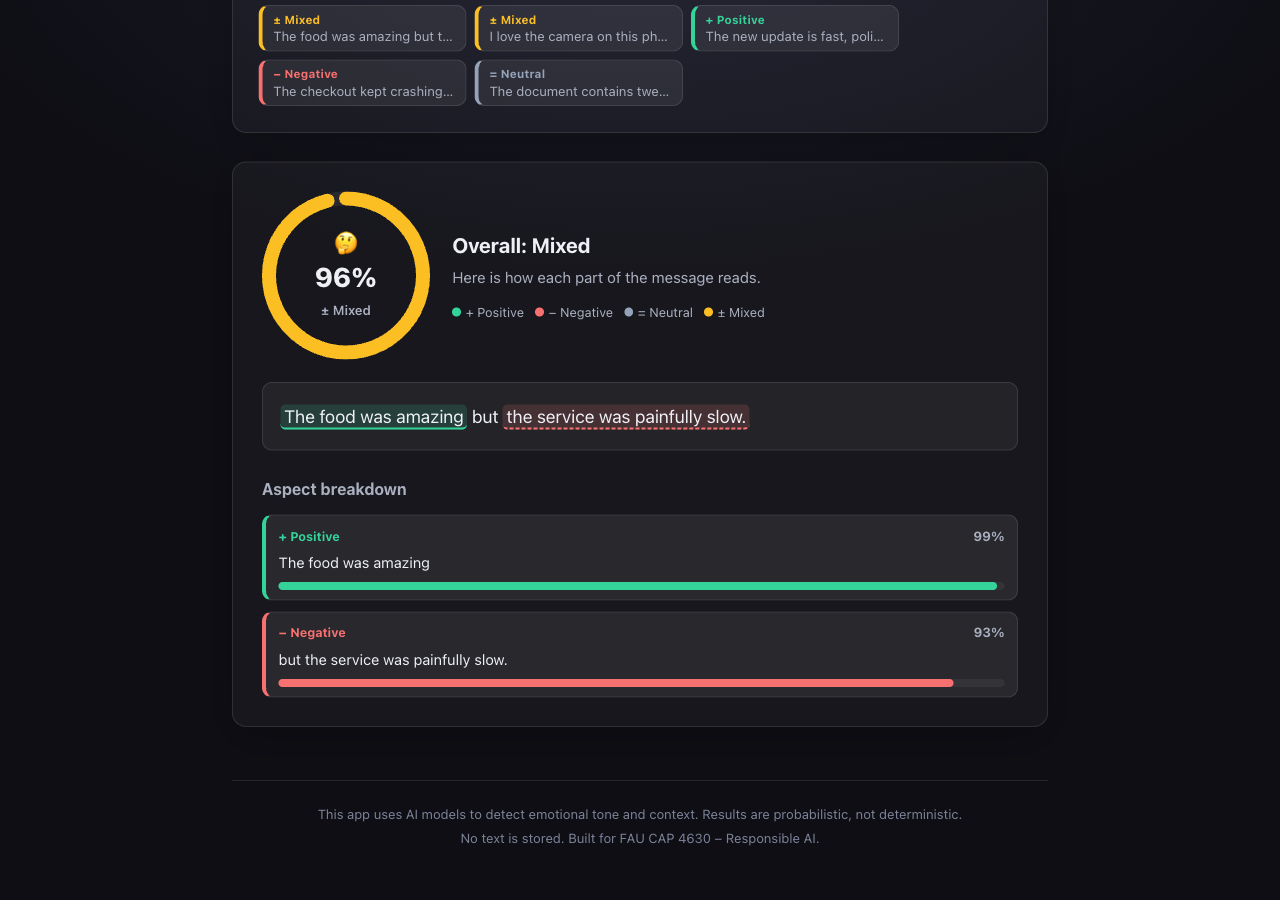
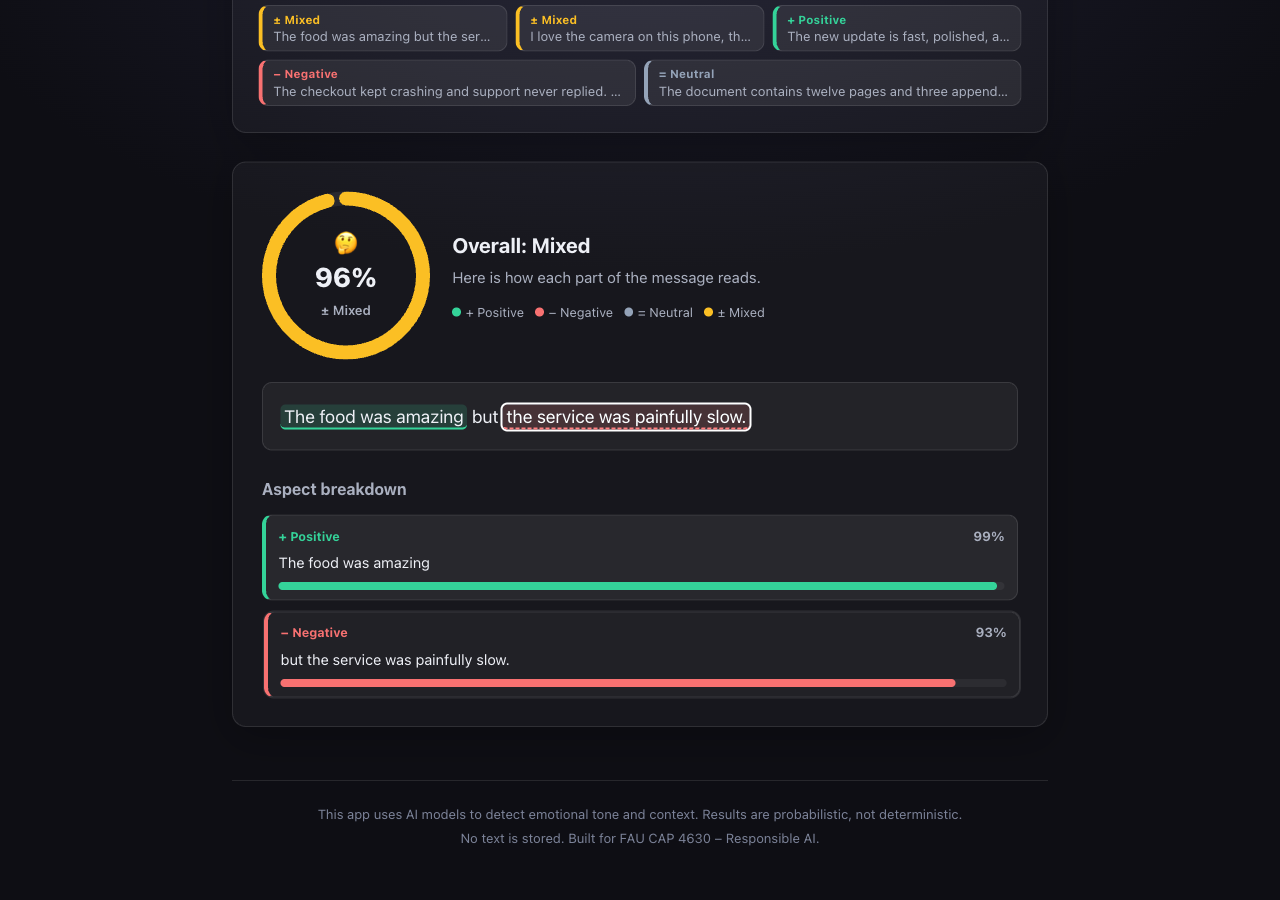
Make the example chips fill the row width
The chips were sized to their content and left-aligned, so they clustered on
the left and left dead space on the right. Let each chip grow to fill its row
(three across on wide screens, full width when stacked) for a balanced layout.
Refresh the after-state screenshots to match.

diff --git a/frontend/src/App.css b/frontend/src/App.css
@@ -141,11 +141,12 @@
 }
 
 .chip {
-  display: inline-flex;
+  display: flex;
   flex-direction: column;
-  align-items: flex-start;
+  align-items: stretch;
   gap: 0.15rem;
-  max-width: 100%;
+  flex: 1 1 240px;
+  min-width: 0;
   text-align: left;
   padding: 0.5em 0.8em;
   border-radius: 10px;
@@ -173,7 +174,6 @@
 .chip__text {
   font-size: 0.82rem;
   color: var(--text-dim);
-  max-width: 22ch;
   overflow: hidden;
   text-overflow: ellipsis;
   white-space: nowrap;
@@ -435,5 +435,4 @@
   .result__top { justify-content: center; }
   .result__intro { text-align: center; }
   .gauge { width: 140px; height: 140px; }
-  .chip__text { max-width: 16ch; }
 }
